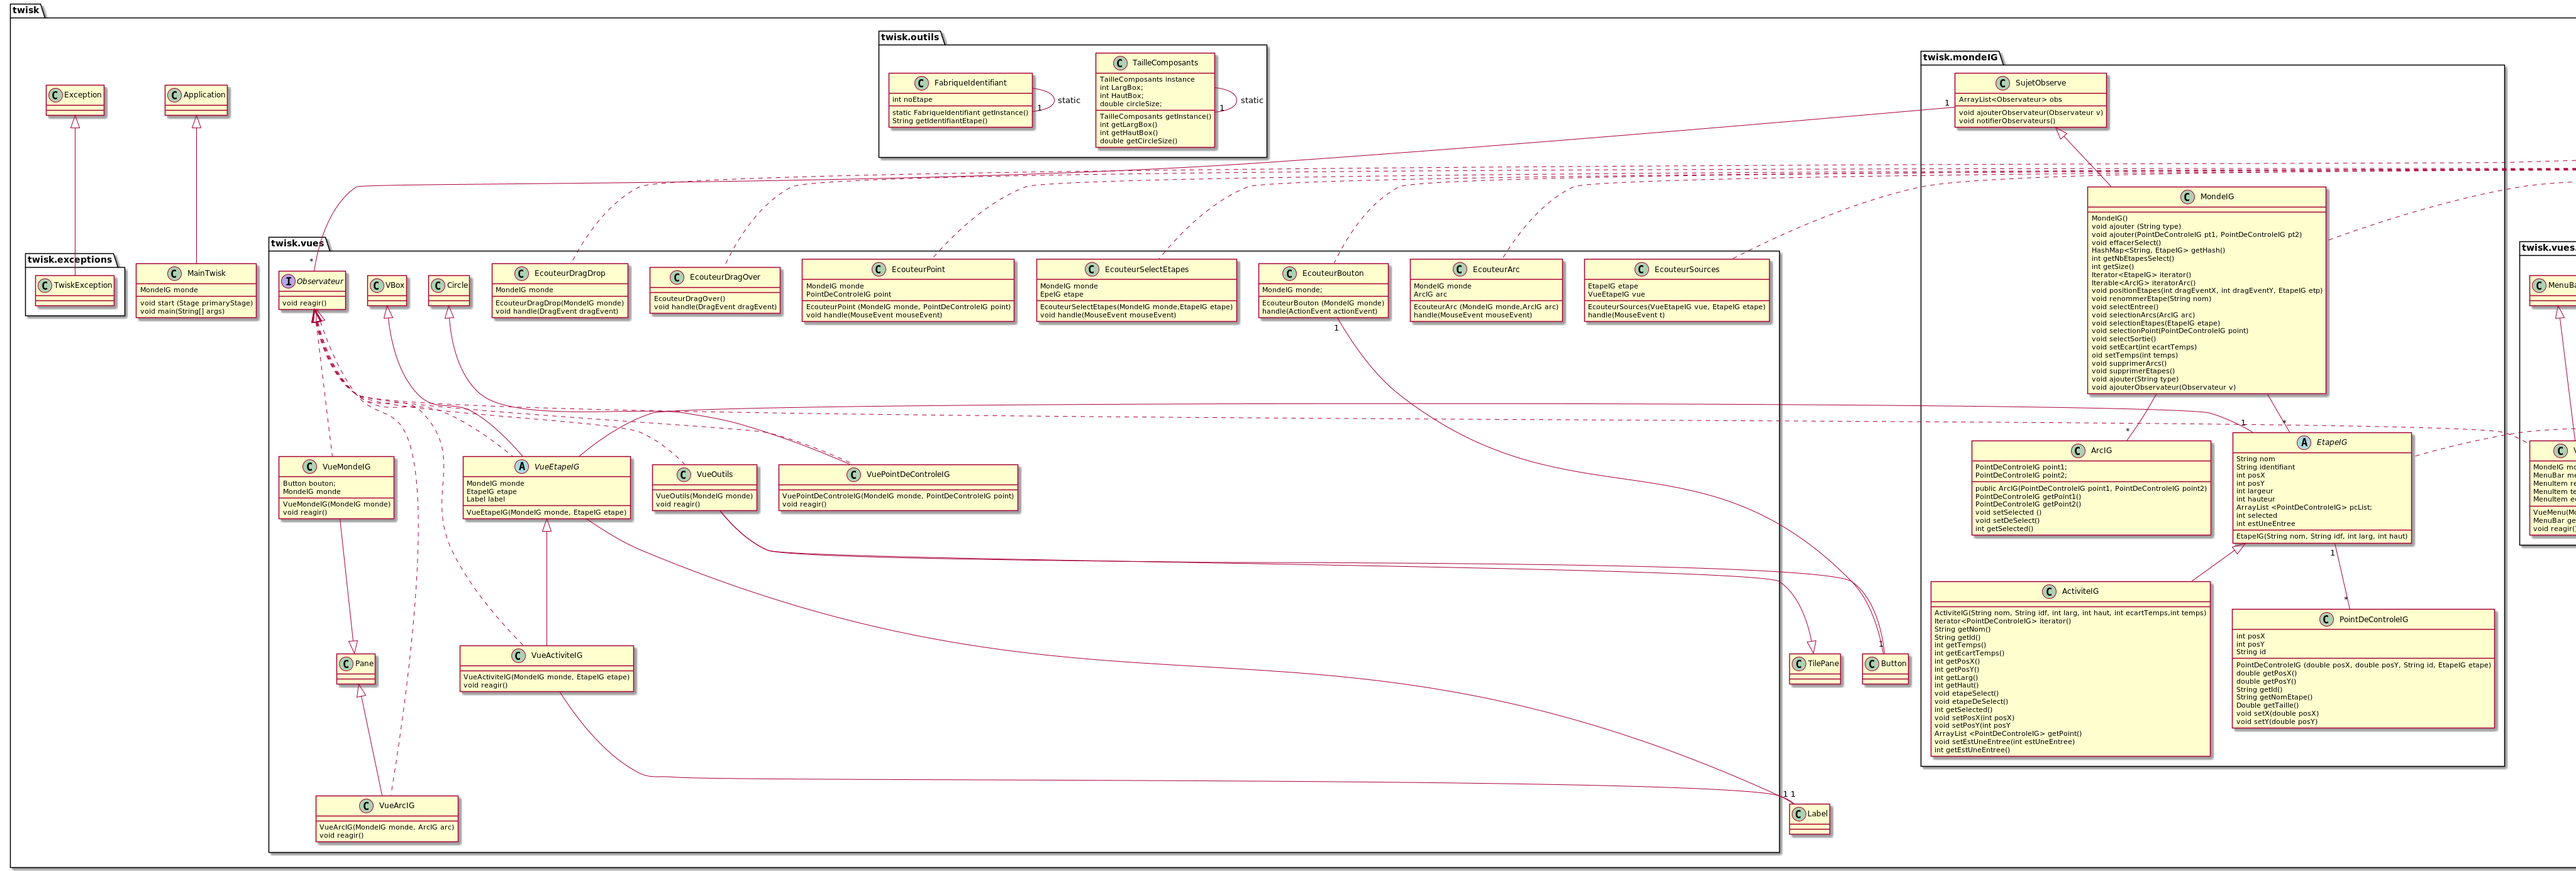
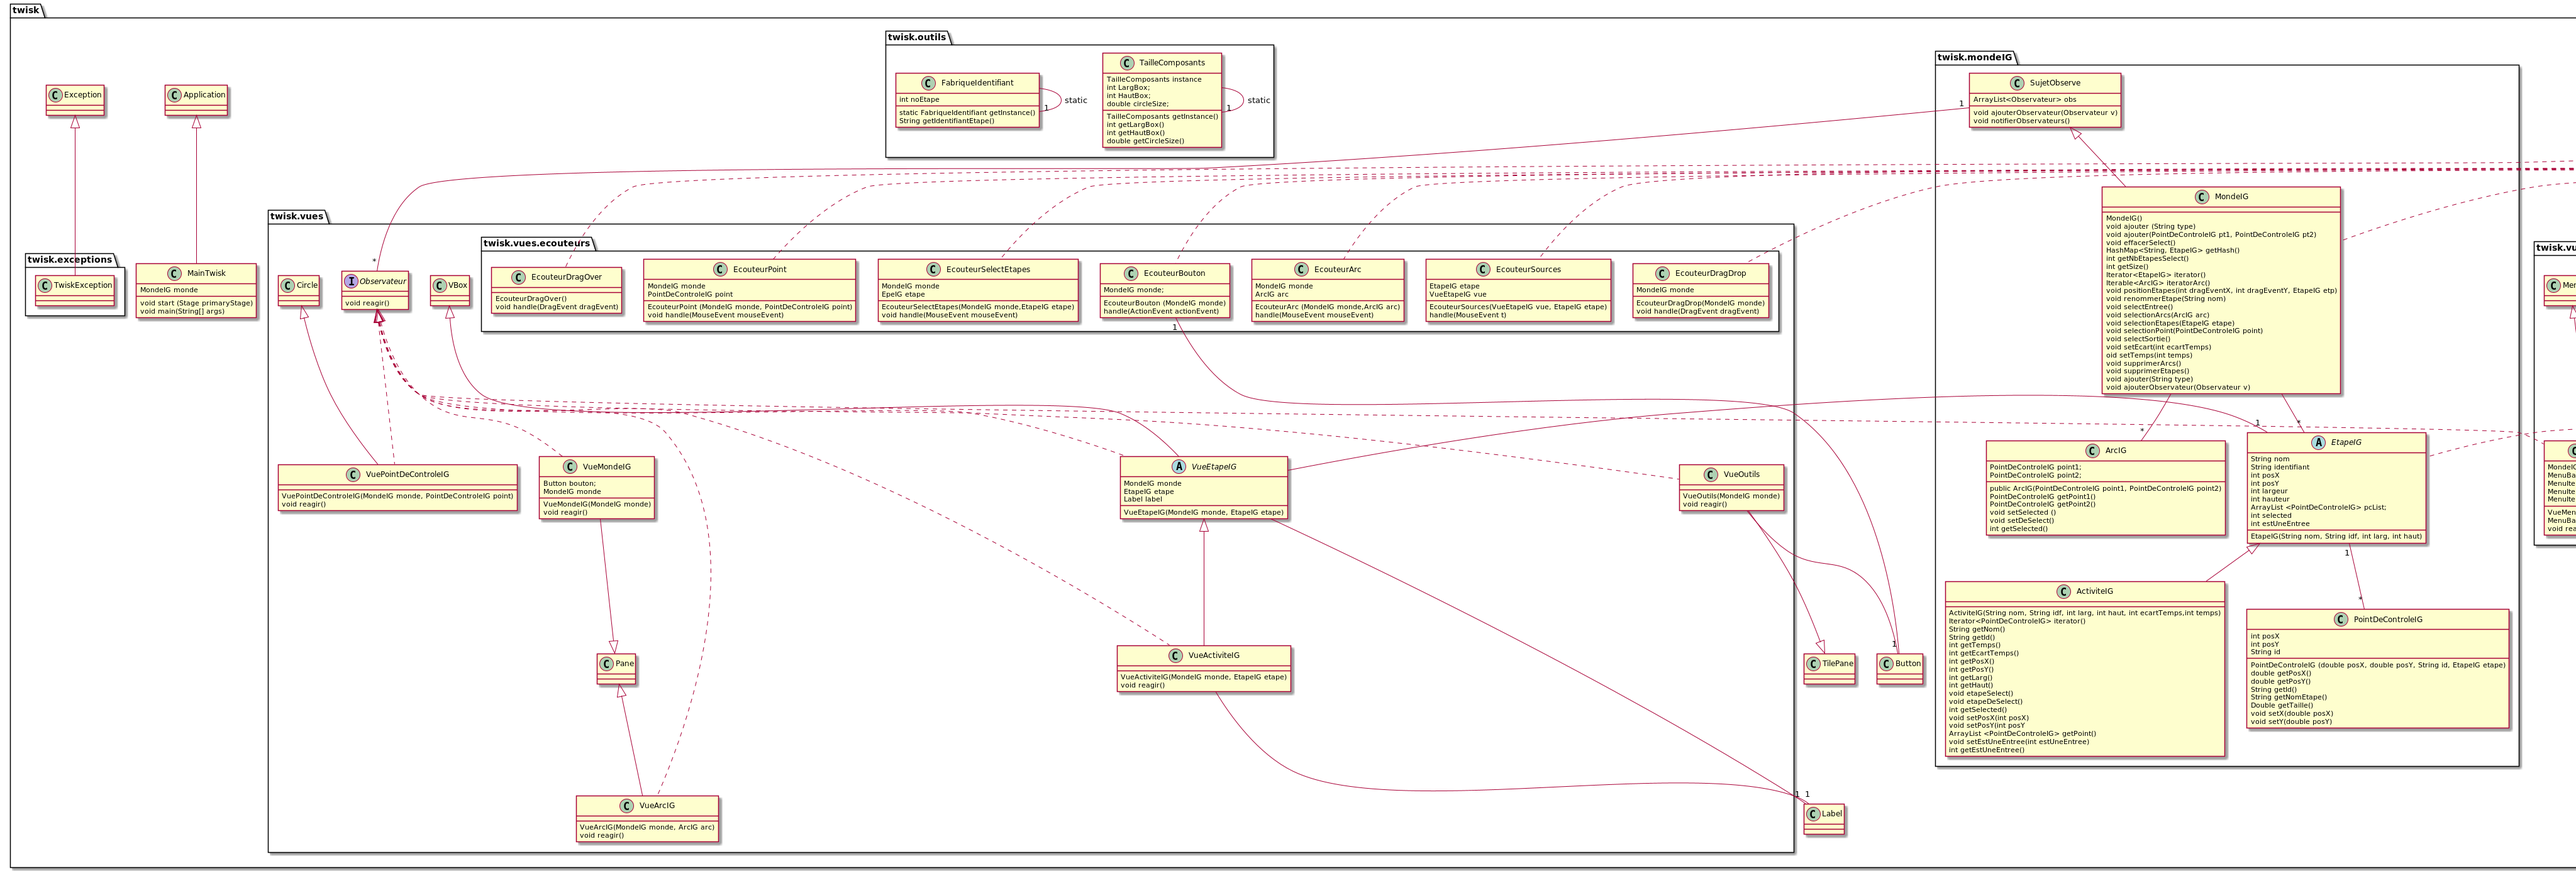
Création package ecouteurs dans le package vues + mAj du diagrammede classes

diff --git a/src/twisk/vues/VuePointDeControleIG.java b/src/twisk/vues/VuePointDeControleIG.java
@@ -1,14 +1,10 @@
 package twisk.vues;
 
-import javafx.scene.Group;
-import javafx.scene.Scene;
-import javafx.scene.input.MouseEvent;
 import javafx.scene.paint.Color;
 import javafx.scene.shape.Circle;
-import twisk.mondeIG.EtapeIG;
 import twisk.mondeIG.MondeIG;
 import twisk.mondeIG.PointDeControleIG;
-import twisk.outils.TailleComposants;
+import twisk.vues.ecouteurs.EcouteurPoint;
 
 public class VuePointDeControleIG extends Circle implements Observateur {
     public VuePointDeControleIG(MondeIG monde, PointDeControleIG point) {

diff --git a/src/twisk/vues/VueActiviteIG.java b/src/twisk/vues/VueActiviteIG.java
@@ -1,12 +1,10 @@
 package twisk.vues;
 
-import javafx.geometry.Insets;
-import javafx.scene.control.Label;
 import javafx.scene.layout.HBox;
-import javafx.scene.shape.Rectangle;
 import twisk.mondeIG.EtapeIG;
 import twisk.mondeIG.MondeIG;
 import twisk.outils.TailleComposants;
+import twisk.vues.ecouteurs.EcouteurSelectEtapes;
 
 public class VueActiviteIG extends VueEtapeIG implements  Observateur{
     public VueActiviteIG(MondeIG monde, EtapeIG etape) {

diff --git a/src/twisk/vues/VueOutils.java b/src/twisk/vues/VueOutils.java
@@ -1,14 +1,12 @@
 package twisk.vues;
 
-import javafx.scene.Node;
 import javafx.scene.control.Button;
 import javafx.scene.control.Tooltip;
 import javafx.scene.image.Image;
 import javafx.scene.image.ImageView;
 import javafx.scene.layout.TilePane;
 import twisk.mondeIG.MondeIG;
-
-import java.util.Collection;
+import twisk.vues.ecouteurs.EcouteurBouton;
 
 public class VueOutils extends TilePane implements Observateur{
     Button bouton;

diff --git a/src/twisk/vues/ecouteurs/EcouteurSources.java b/src/twisk/vues/ecouteurs/EcouteurSources.java
@@ -1,4 +1,4 @@
-package twisk.vues;
+package twisk.vues.ecouteurs;
 
 import javafx.event.ActionEvent;
 import javafx.event.EventHandler;
@@ -9,6 +9,7 @@ import javafx.scene.paint.Paint;
 import javafx.scene.shape.Circle;
 import jdk.jfr.Label;
 import twisk.mondeIG.EtapeIG;
+import twisk.vues.VueEtapeIG;
 
 public class EcouteurSources implements EventHandler<MouseEvent> {
     private EtapeIG etape;

diff --git a/src/twisk/vues/VueMondeIG.java b/src/twisk/vues/VueMondeIG.java
@@ -5,8 +5,8 @@ import twisk.mondeIG.ArcIG;
 import twisk.mondeIG.EtapeIG;
 import twisk.mondeIG.MondeIG;
 import twisk.mondeIG.PointDeControleIG;
-
-import java.util.Iterator;
+import twisk.vues.ecouteurs.EcouteurDragDrop;
+import twisk.vues.ecouteurs.EcouteurDragOver;
 
 public class VueMondeIG extends Pane implements Observateur{
     private MondeIG monde;

diff --git a/src/twisk/vues/VueEtapeIG.java b/src/twisk/vues/VueEtapeIG.java
@@ -7,6 +7,7 @@ import javafx.scene.image.ImageView;
 import javafx.scene.layout.VBox;
 import twisk.mondeIG.EtapeIG;
 import twisk.mondeIG.MondeIG;
+import twisk.vues.ecouteurs.EcouteurSources;
 
 public abstract class VueEtapeIG extends VBox implements Observateur {
     protected MondeIG monde;

diff --git a/src/twisk/vues/VueArcIG.java b/src/twisk/vues/VueArcIG.java
@@ -6,6 +6,7 @@ import javafx.scene.shape.Line;
 import javafx.scene.shape.Polyline;
 import twisk.mondeIG.ArcIG;
 import twisk.mondeIG.MondeIG;
+import twisk.vues.ecouteurs.EcouteurArc;
 
 public class VueArcIG extends Pane implements Observateur {
     public VueArcIG(MondeIG monde, ArcIG arc){

diff --git a/src/twisk/vues/ecouteurs/EcouteurArc.java b/src/twisk/vues/ecouteurs/EcouteurArc.java
@@ -1,4 +1,4 @@
-package twisk.vues;
+package twisk.vues.ecouteurs;
 
 import javafx.event.EventHandler;
 import javafx.scene.input.MouseEvent;

diff --git a/src/twisk/vues/ecouteurs/EcouteurDragOver.java b/src/twisk/vues/ecouteurs/EcouteurDragOver.java
@@ -1,4 +1,4 @@
-package twisk.vues;
+package twisk.vues.ecouteurs;
 
 import javafx.event.EventHandler;
 import javafx.scene.input.DataFormat;

diff --git a/src/twisk/vues/ecouteurs/EcouteurSelectEtapes.java b/src/twisk/vues/ecouteurs/EcouteurSelectEtapes.java
@@ -1,4 +1,4 @@
-package twisk.vues;
+package twisk.vues.ecouteurs;
 
 import javafx.event.EventHandler;
 import javafx.scene.input.MouseEvent;

diff --git a/src/twisk/vues/ecouteurs/EcouteurDragDrop.java b/src/twisk/vues/ecouteurs/EcouteurDragDrop.java
@@ -1,4 +1,4 @@
-package twisk.vues;
+package twisk.vues.ecouteurs;
 
 import javafx.event.EventHandler;
 import javafx.scene.input.DragEvent;

diff --git a/src/twisk/vues/ecouteurs/EcouteurPoint.java b/src/twisk/vues/ecouteurs/EcouteurPoint.java
@@ -1,4 +1,4 @@
-package twisk.vues;
+package twisk.vues.ecouteurs;
 
 import javafx.event.EventHandler;
 import javafx.scene.control.Alert;
